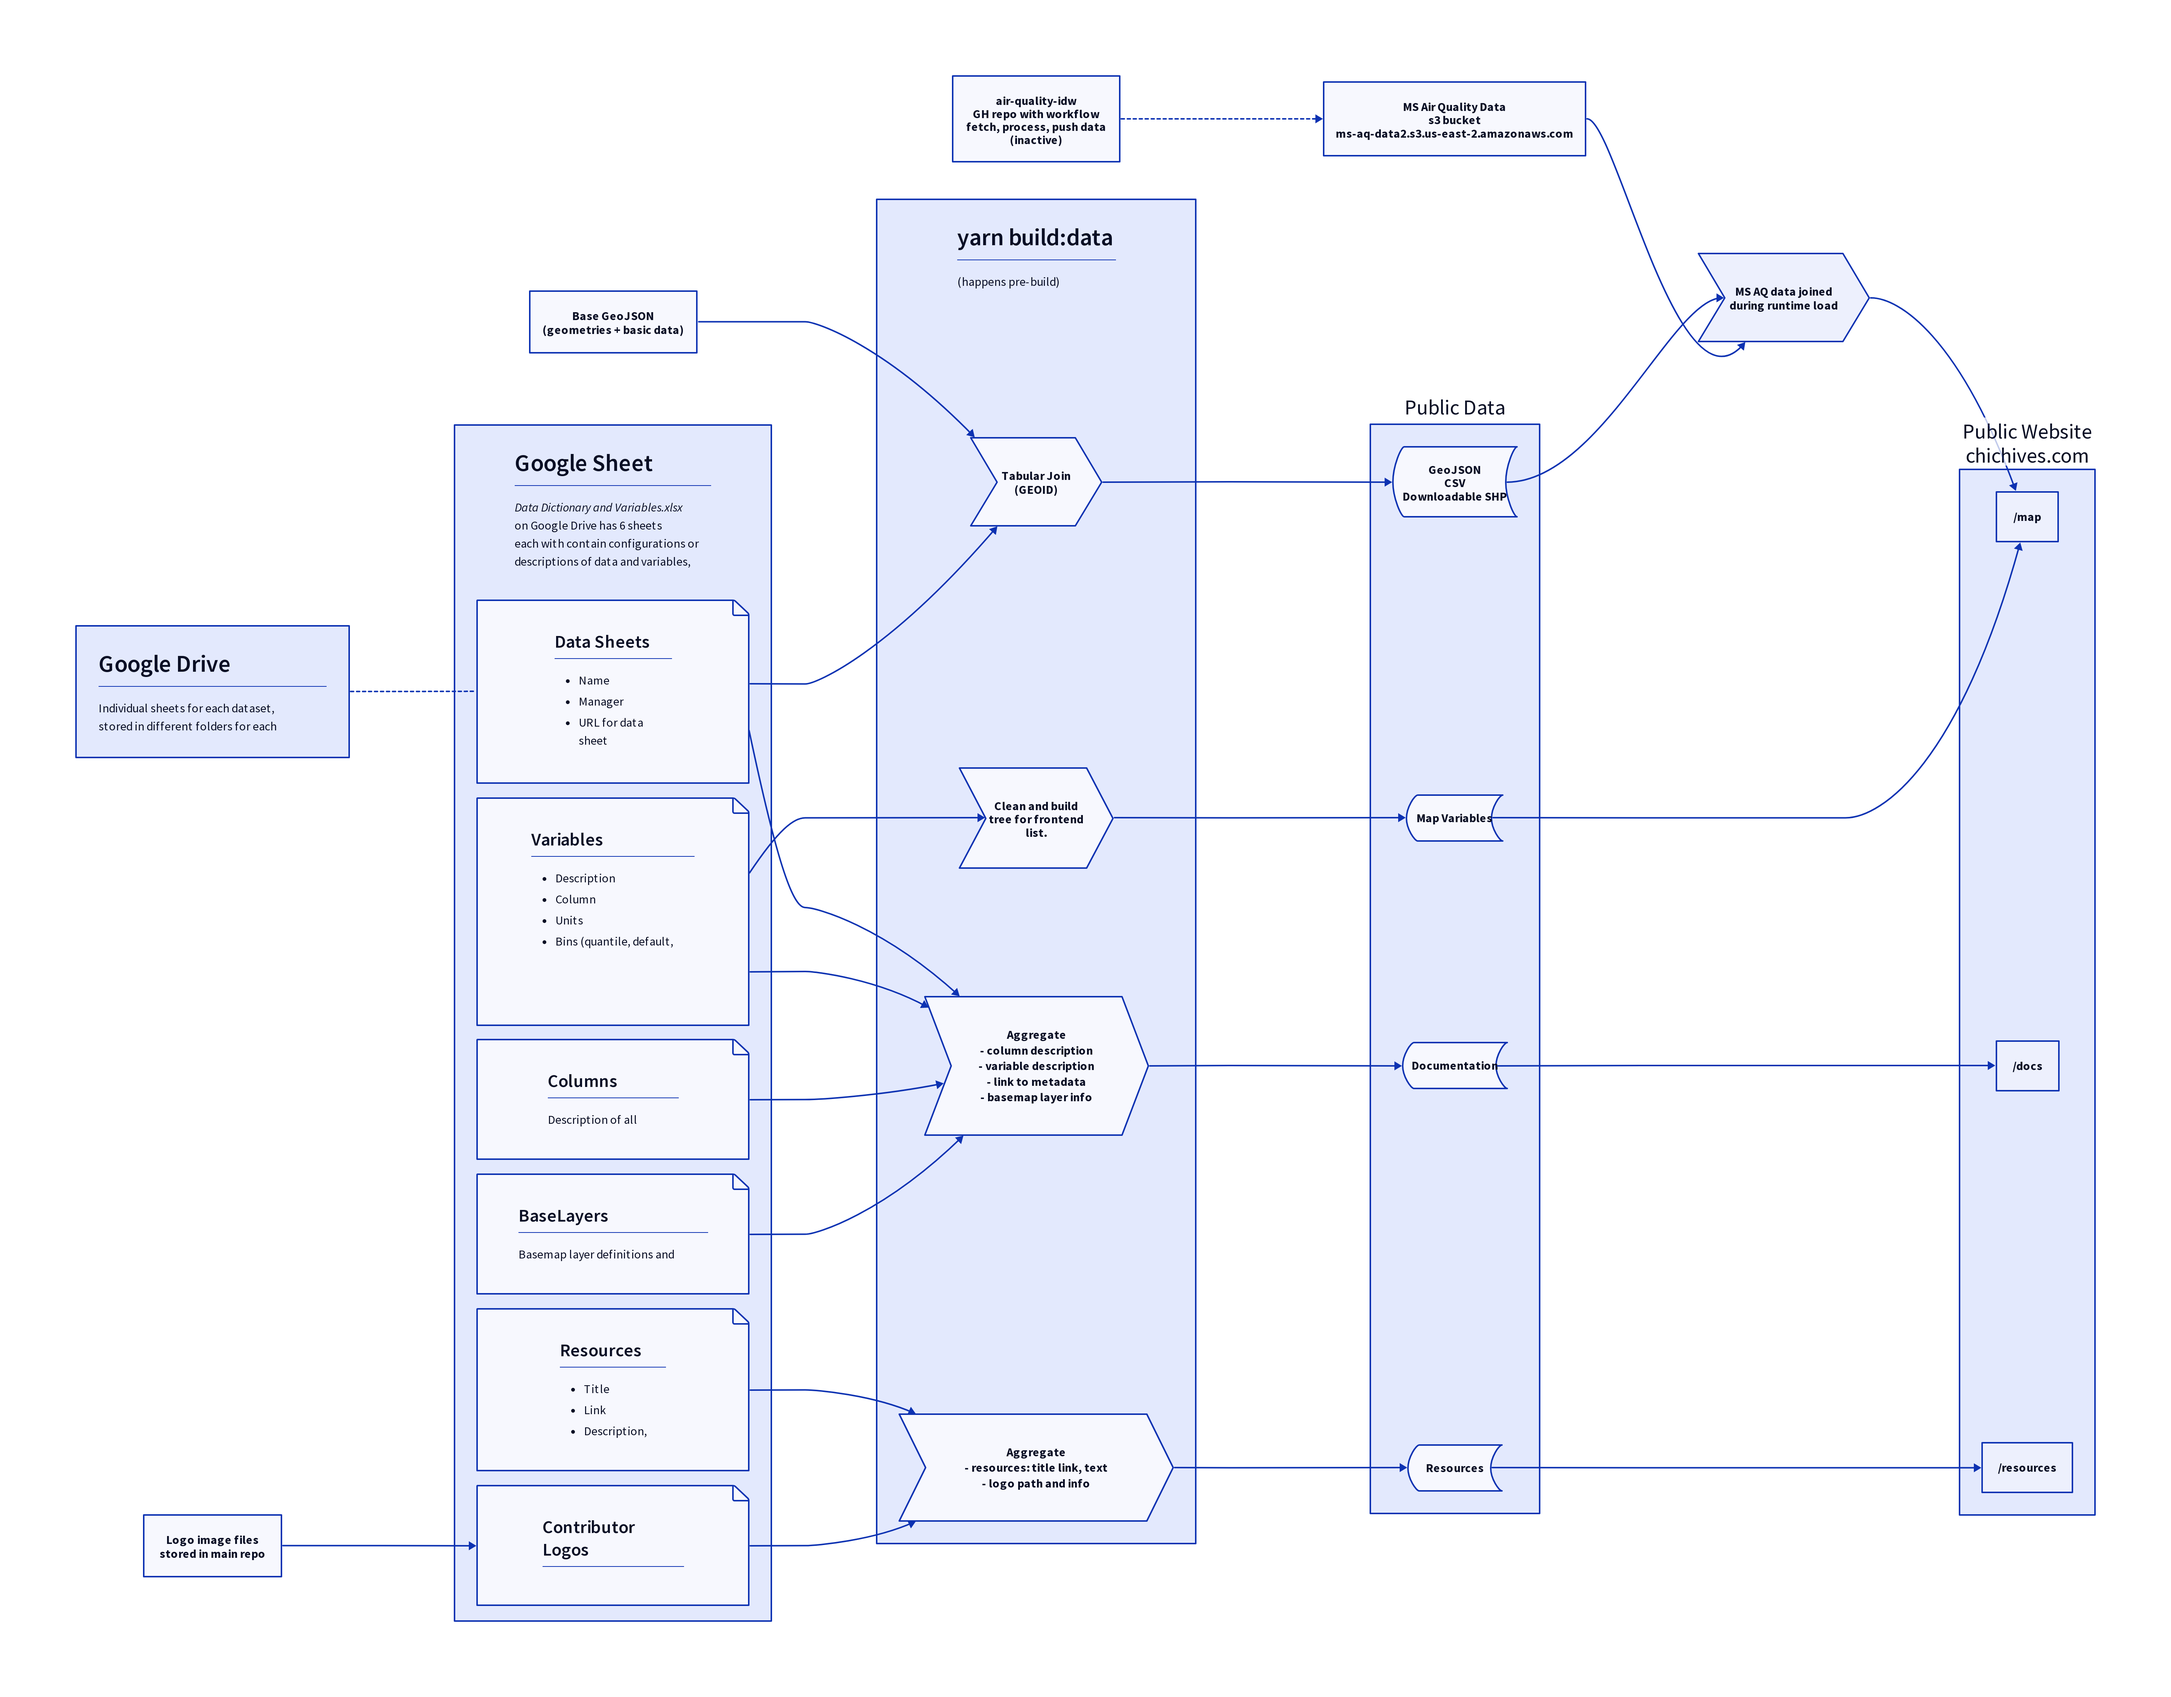
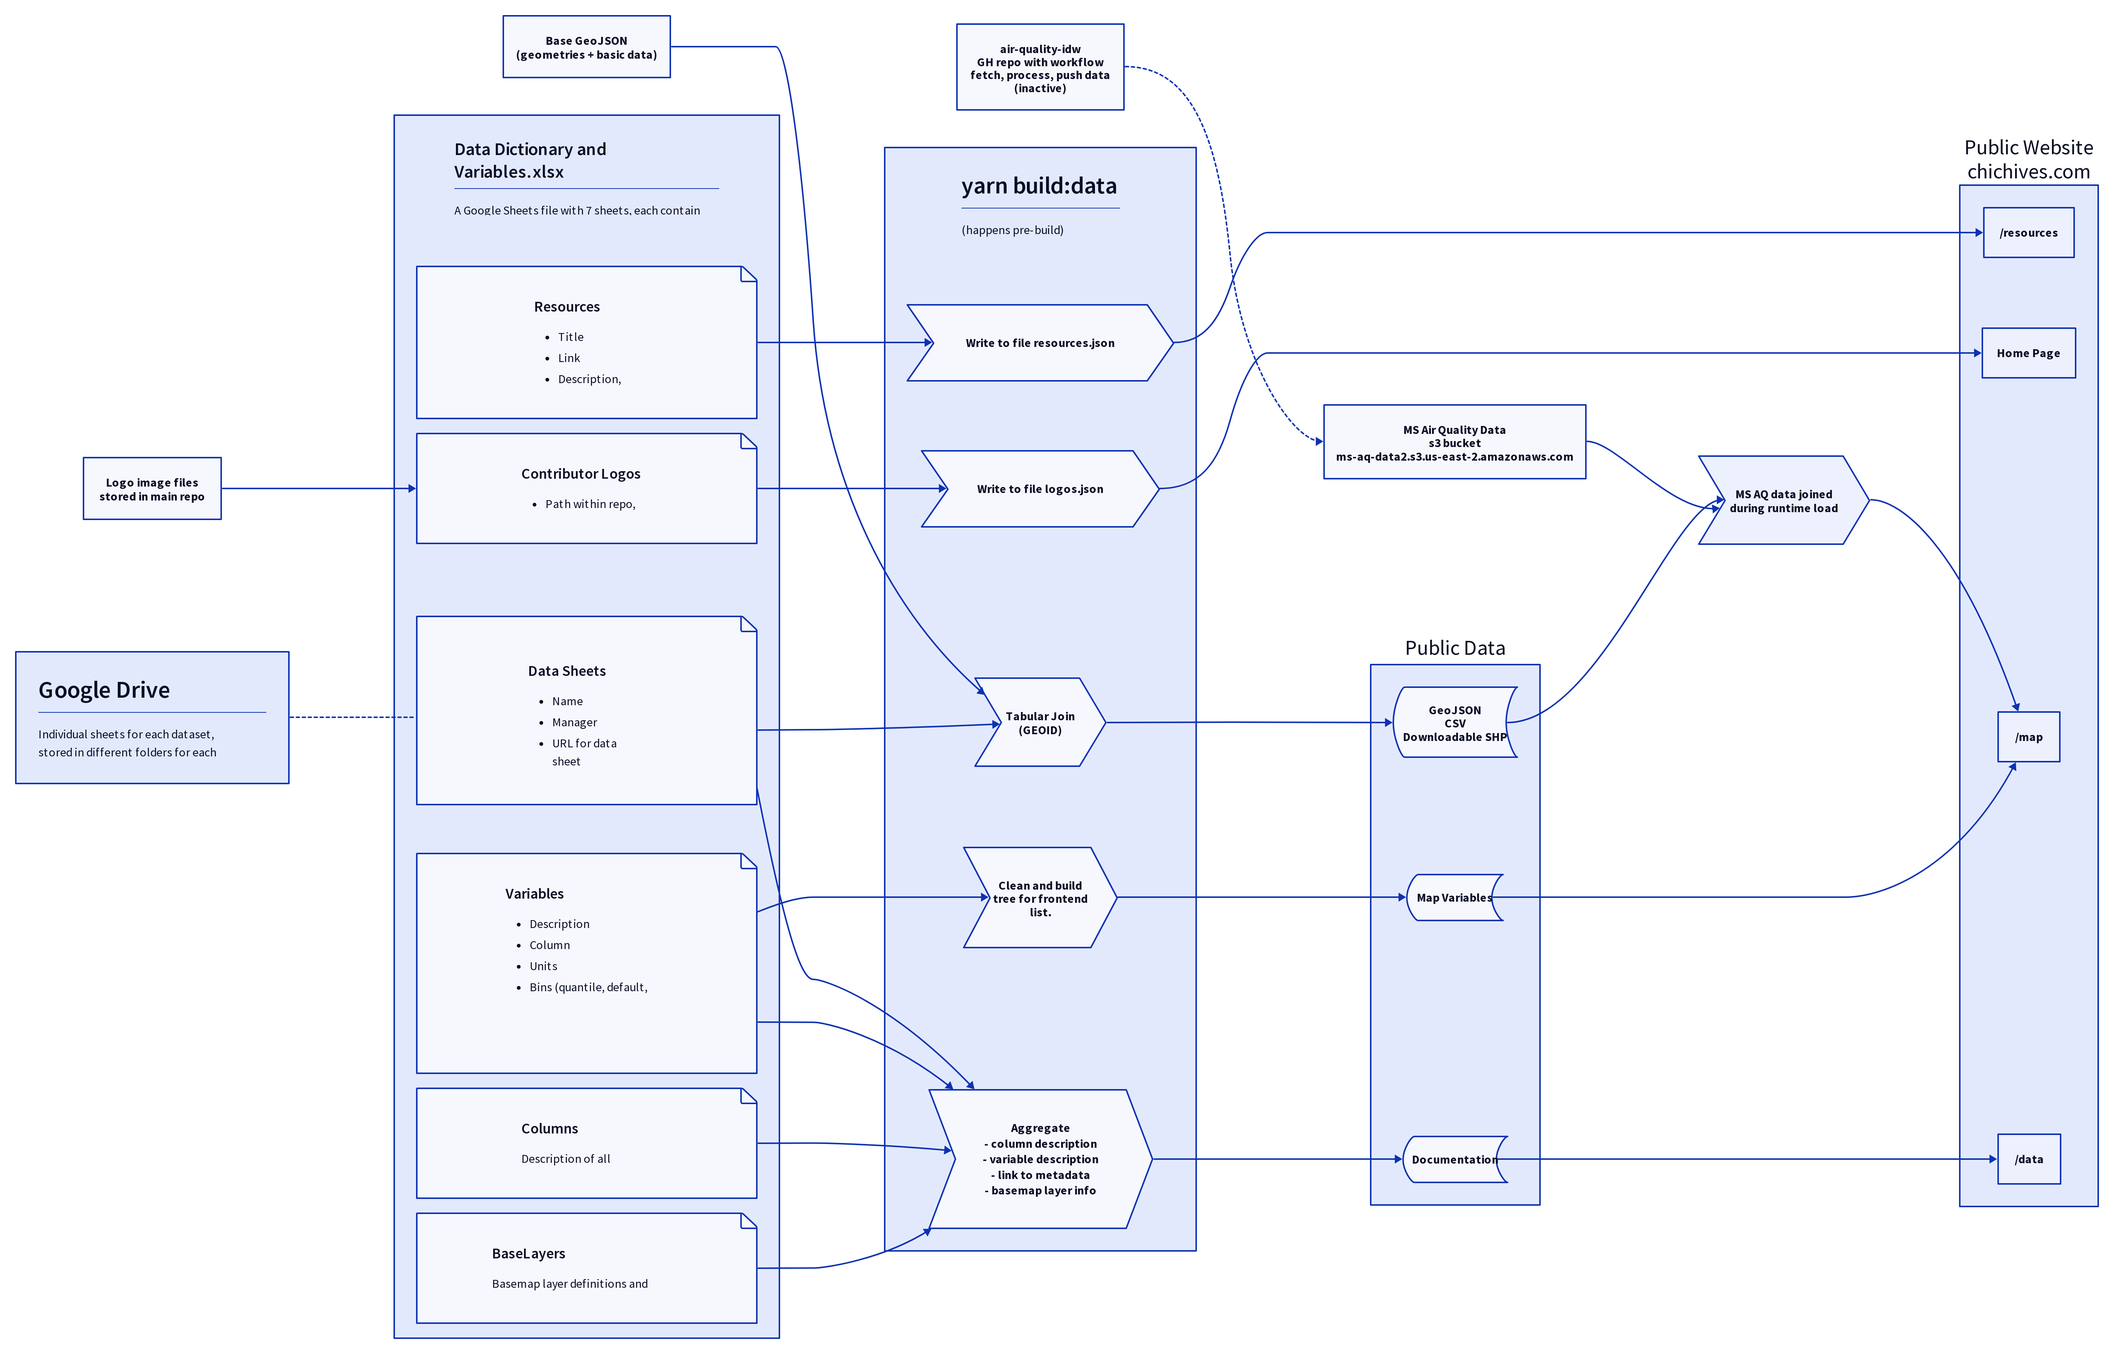
update build:data diagram #125

diff --git a/docs/README.md b/docs/README.md
@@ -38,7 +38,9 @@ This process is shown in context in the following diagram.
 
 ![](./chives-build-data.png "Data diagram")
 
-Data is pulled from the data management 
+*Dev note: use `d2 docs/chives-build-data.d2 docs/chives-build-data.png --pad 20` to regenerate this diagram. [learn more about D2](https://d2lang.com/)*
+
+Data is pulled from the data management document described in the [Content Management System](#content-management-system) section below.
 
 #### `yarn start`
 
